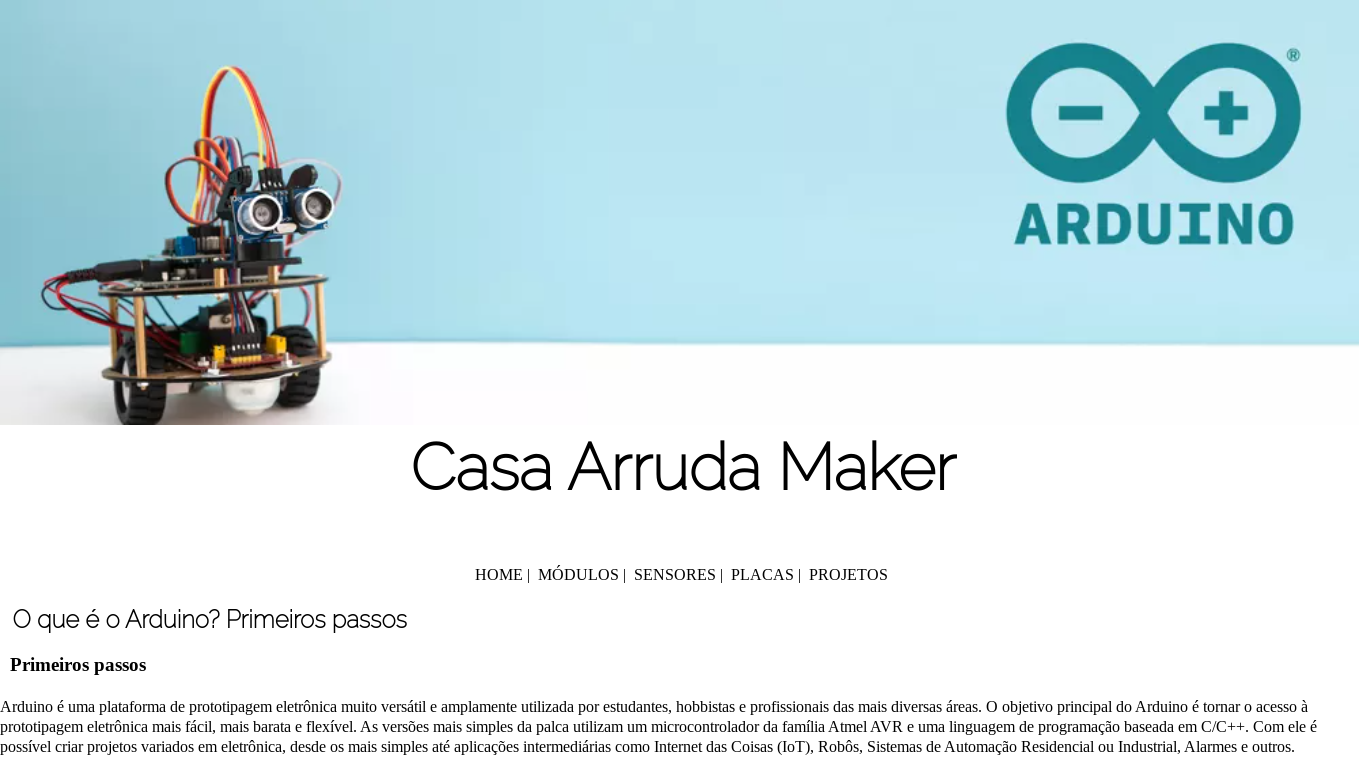
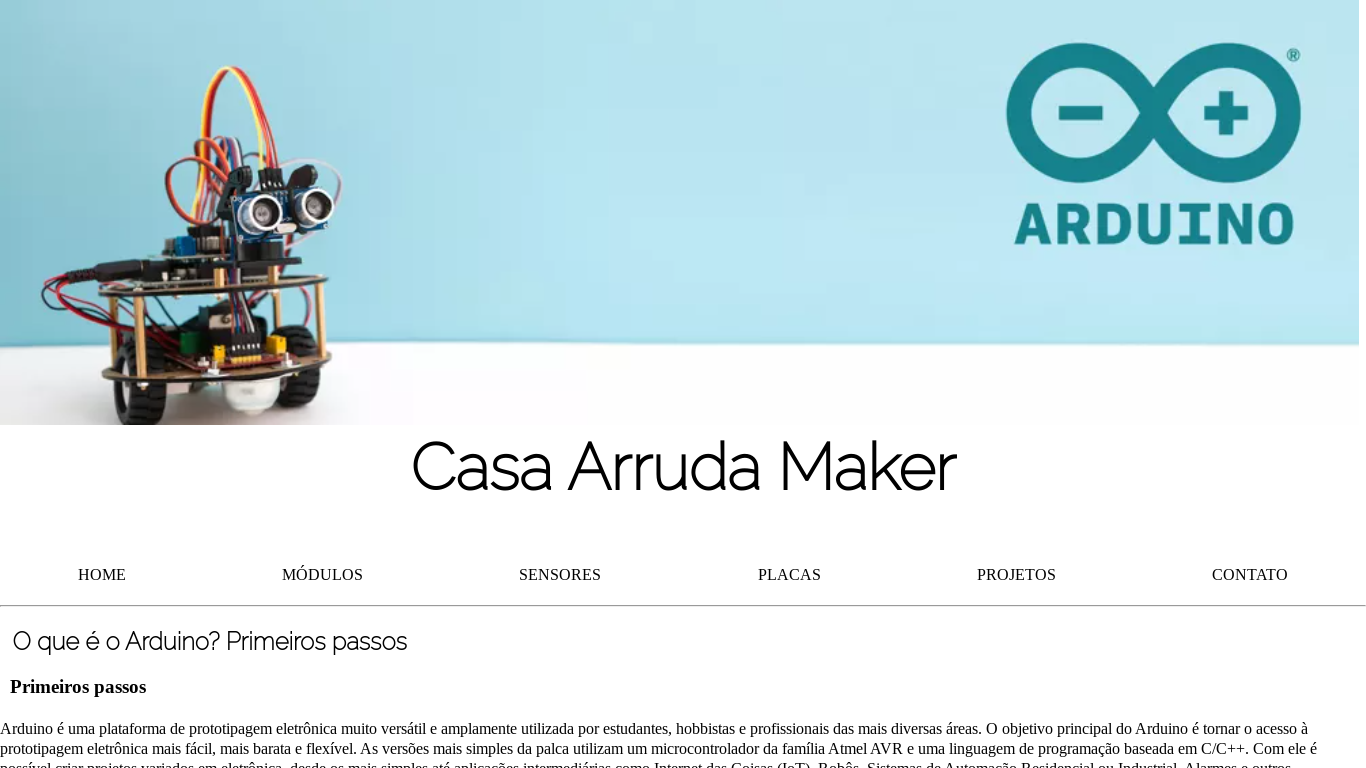
upload project

diff --git a/index.html b/index.html
@@ -18,15 +18,16 @@
         </div>
         <br><br><br>
             <nav class="navegacao">
-                <li> &nbsp;HOME |&nbsp;</li>
-                <li> &nbsp;MÓDULOS |&nbsp;</li>
-                <li> &nbsp;SENSORES |&nbsp;</li>
-                <li> &nbsp;PLACAS |&nbsp;</li>
-                <li> &nbsp;PROJETOS &nbsp;</li>
+                <li> HOME </li>
+                <li> MÓDULOS </li>
+                <li> SENSORES </li>
+                <li> PLACAS </li>
+                <li> PROJETOS </li>
+                <li>CONTATO</li>
             </nav>
             <br>
-            
-        
+            <hr>
+        <br>
         </header>
         <h2>&nbsp;&nbsp;O que é o Arduino? Primeiros passos</h2>
         <br>

diff --git a/index.css b/index.css
@@ -17,7 +17,7 @@ body{
     display: flex;
     flex-direction: row;
     align-items:center;
-    justify-content: center;
+    justify-content:space-around;
 }
 .container img{
     background-color: rgb(209, 209, 209);
